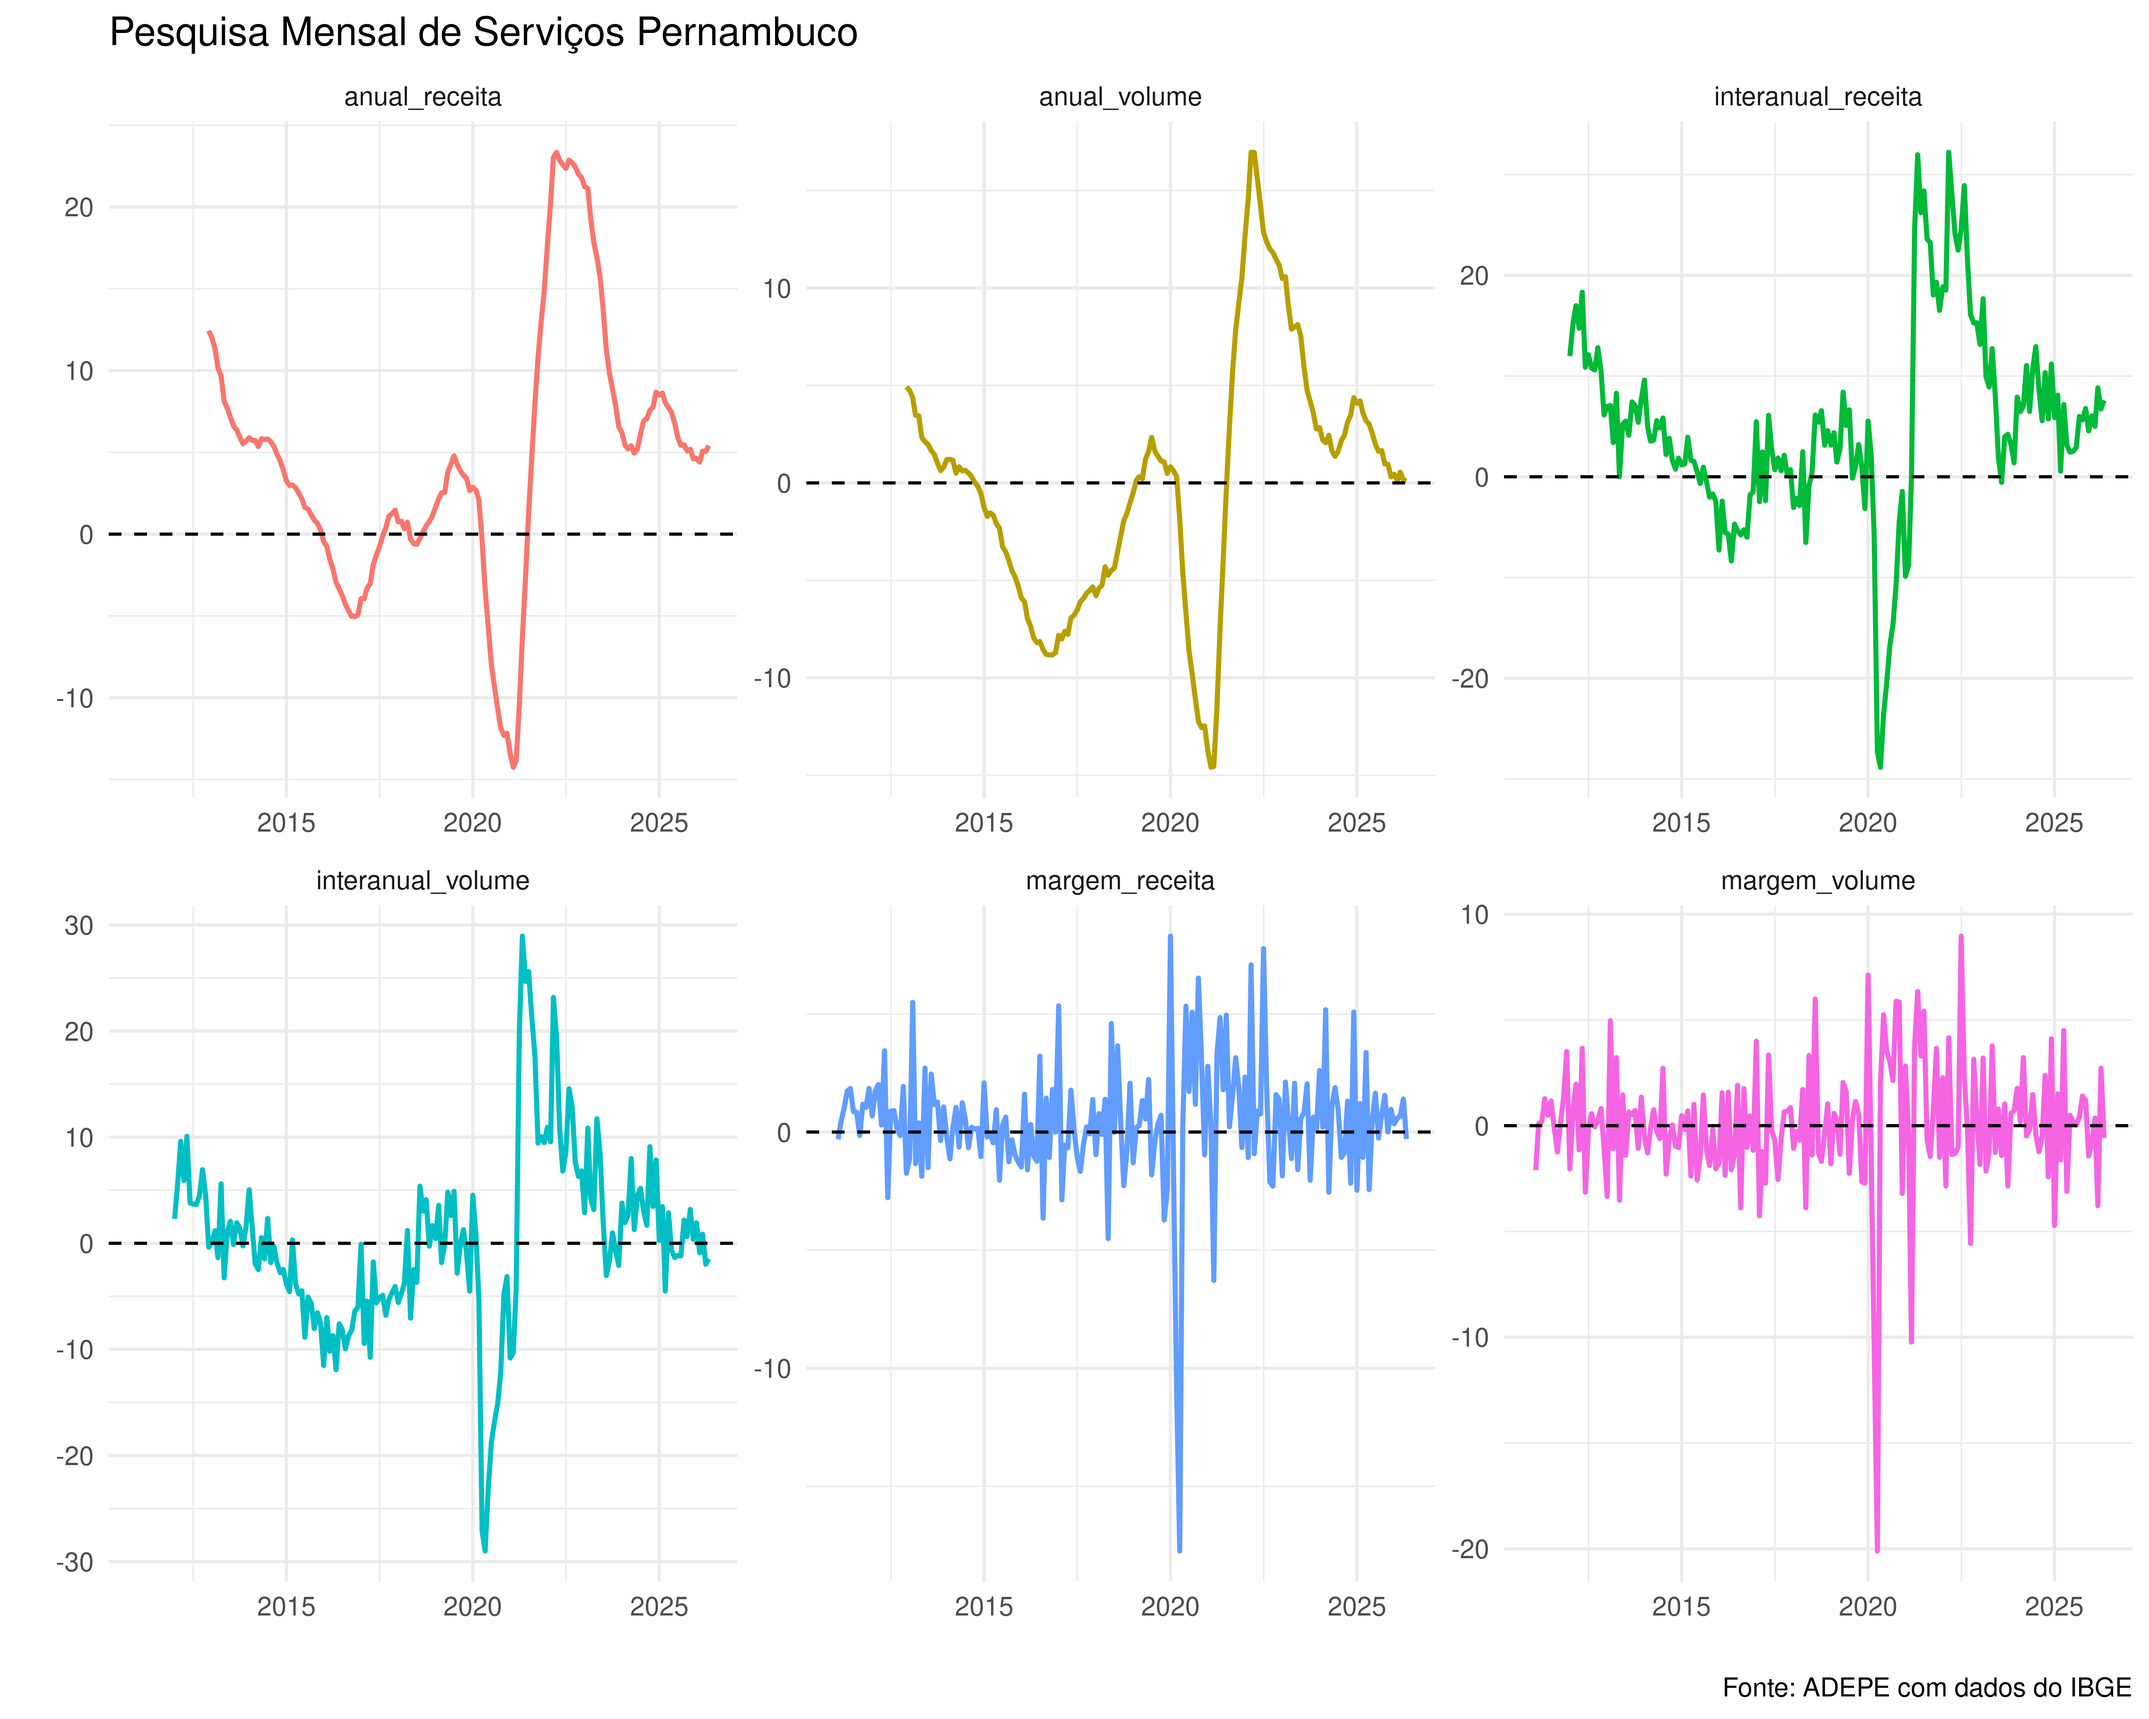
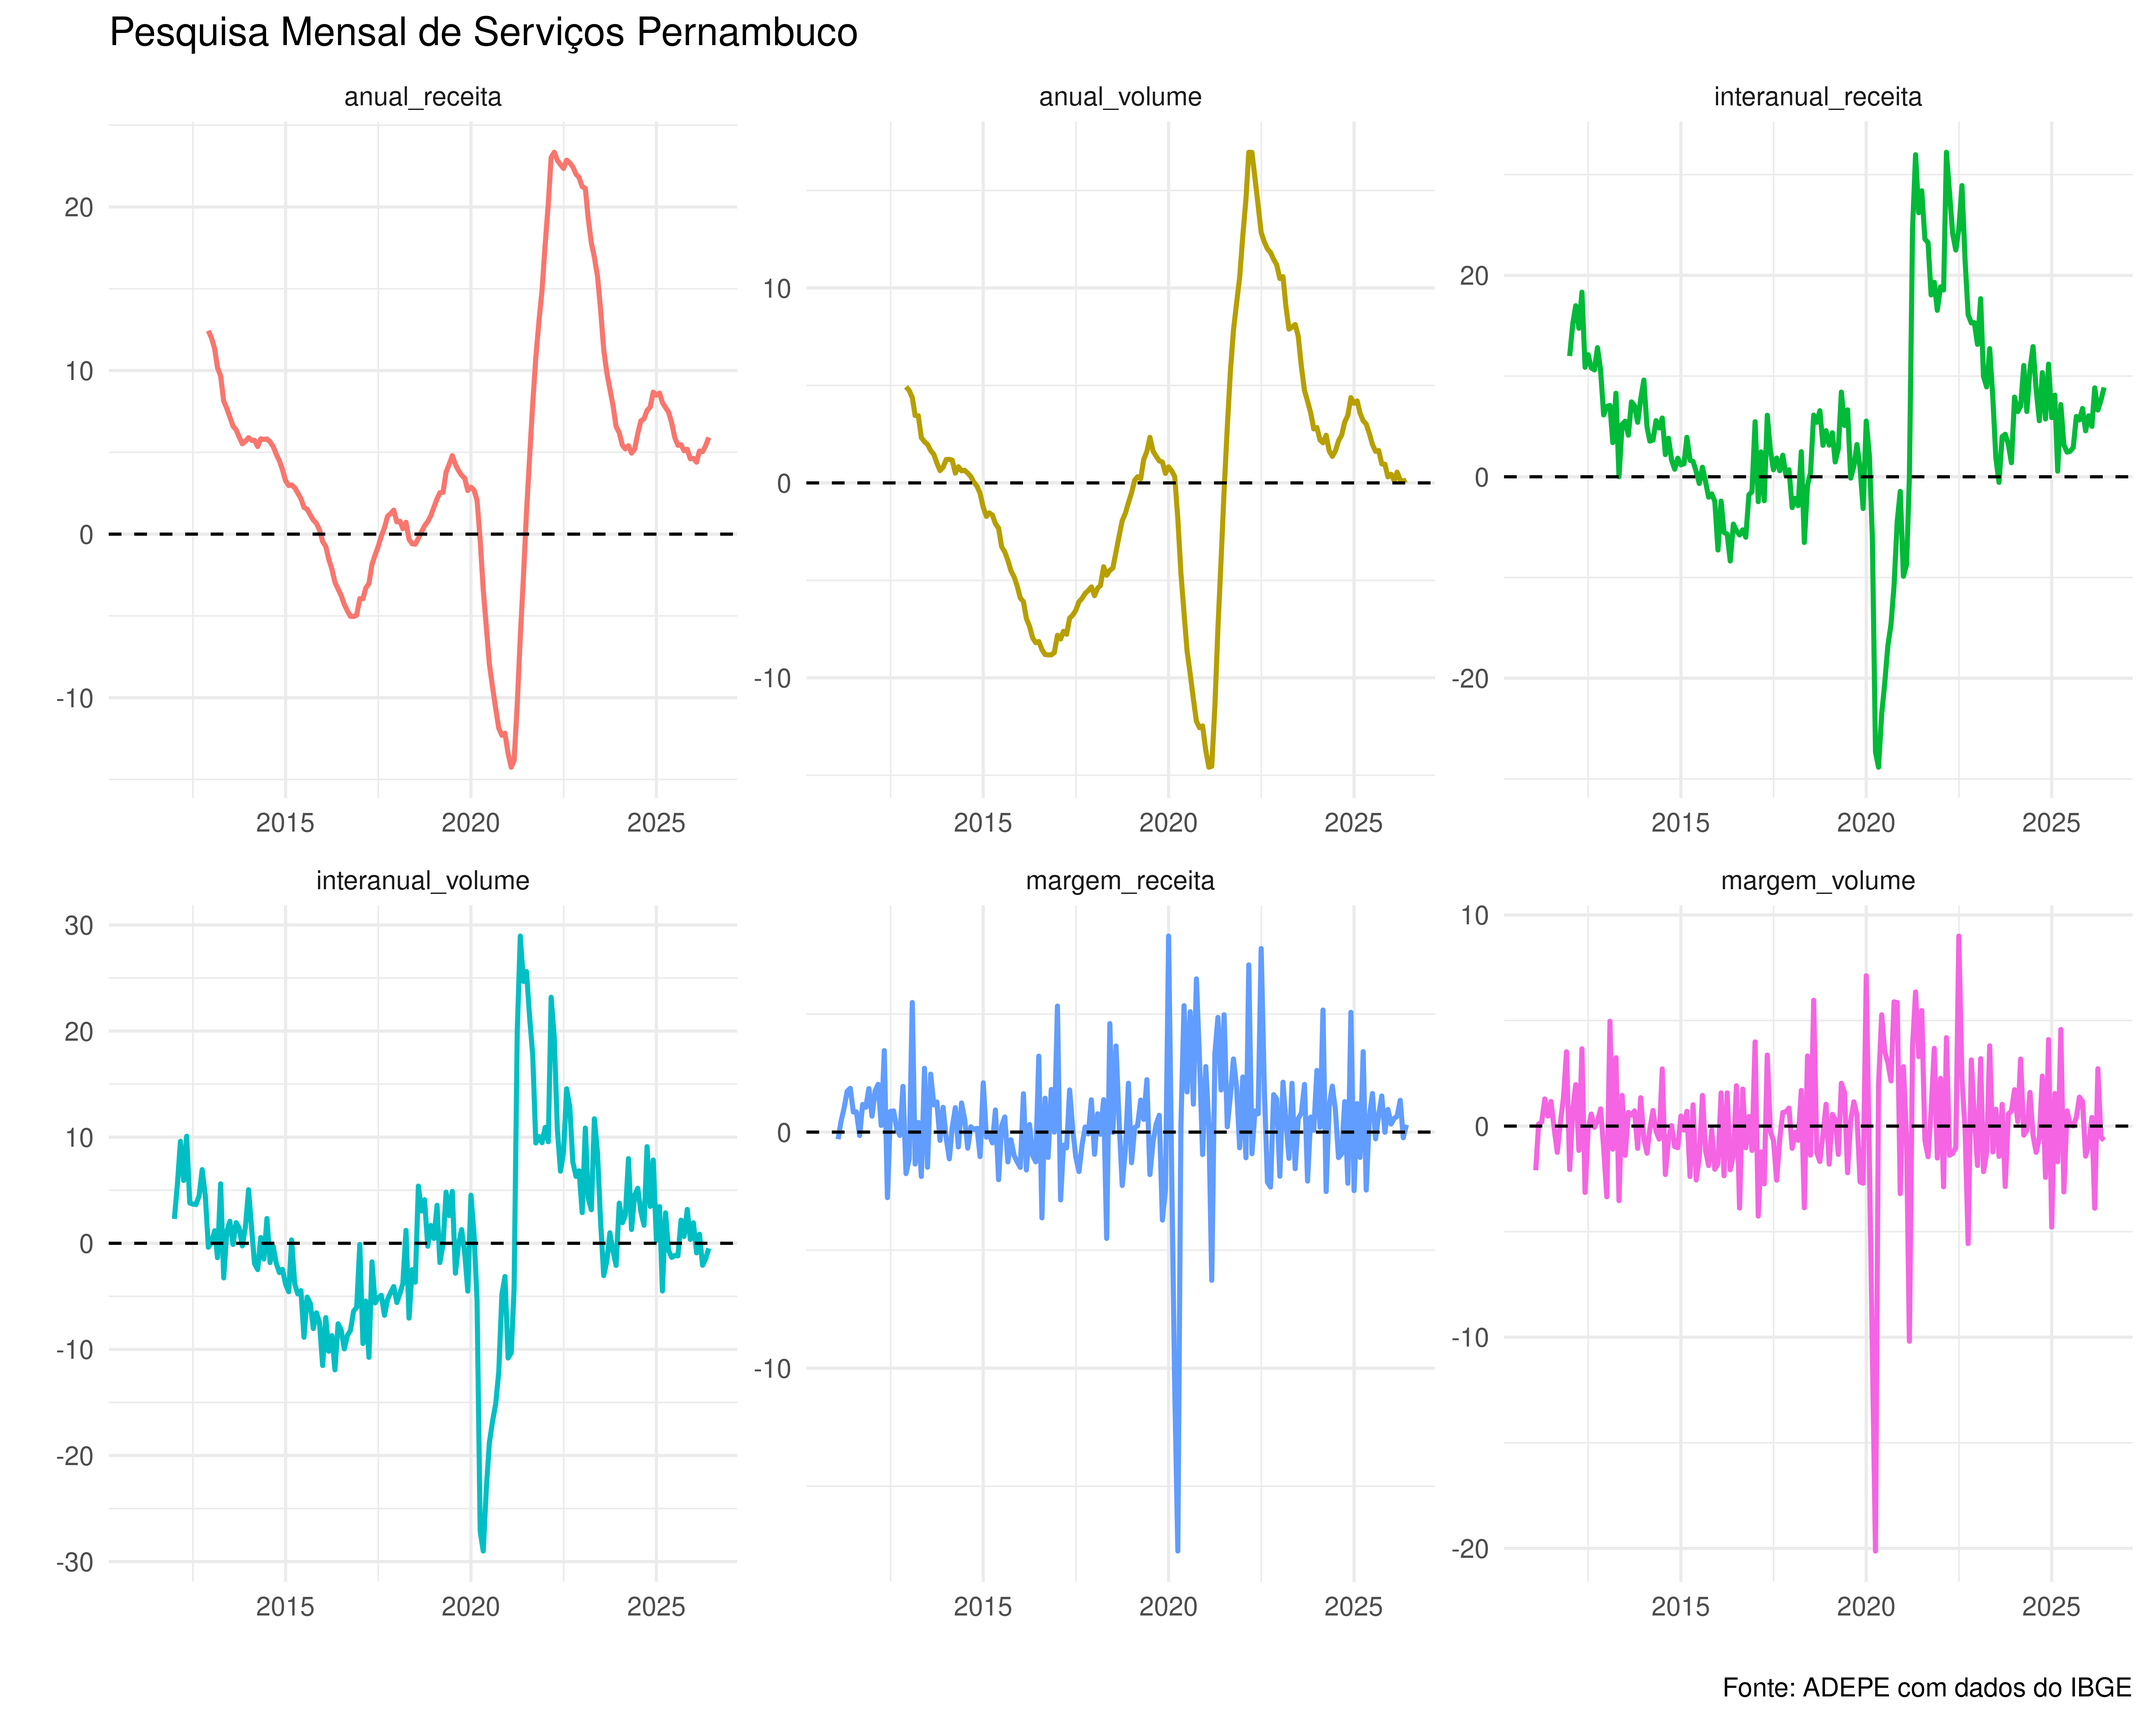
Atualização de relatório automatizada

diff --git a/pms/pms.html b/pms/pms.html
@@ -381,40 +381,40 @@ Núcleo de Dados <br><span style="font-size: 70%;">ADEPE<br><a href="https://git
 </thead>
 <tbody>
 <tr class="odd">
-<td style="text-align: left;">2025-12-01</td>
-<td style="text-align: right;">-0.94</td>
-<td style="text-align: right;">7.88</td>
-<td style="text-align: right;">7.68</td>
-</tr>
-<tr class="even">
 <td style="text-align: left;">2026-01-01</td>
-<td style="text-align: right;">2.23</td>
+<td style="text-align: right;">2.21</td>
 <td style="text-align: right;">6.90</td>
 <td style="text-align: right;">7.71</td>
 </tr>
-<tr class="odd">
+<tr class="even">
 <td style="text-align: left;">2026-02-01</td>
-<td style="text-align: right;">1.21</td>
-<td style="text-align: right;">5.03</td>
+<td style="text-align: right;">1.20</td>
+<td style="text-align: right;">5.04</td>
 <td style="text-align: right;">7.39</td>
 </tr>
-<tr class="even">
+<tr class="odd">
 <td style="text-align: left;">2026-03-01</td>
-<td style="text-align: right;">-0.18</td>
-<td style="text-align: right;">9.03</td>
+<td style="text-align: right;">-0.12</td>
+<td style="text-align: right;">9.06</td>
 <td style="text-align: right;">7.52</td>
 </tr>
-<tr class="odd">
+<tr class="even">
 <td style="text-align: left;">2026-04-01</td>
-<td style="text-align: right;">1.48</td>
-<td style="text-align: right;">8.26</td>
-<td style="text-align: right;">7.60</td>
+<td style="text-align: right;">1.44</td>
+<td style="text-align: right;">8.33</td>
+<td style="text-align: right;">7.61</td>
+</tr>
+<tr class="odd">
+<td style="text-align: left;">2026-05-01</td>
+<td style="text-align: right;">0.46</td>
+<td style="text-align: right;">7.24</td>
+<td style="text-align: right;">7.43</td>
 </tr>
 <tr class="even">
-<td style="text-align: left;">2026-05-01</td>
-<td style="text-align: right;">0.32</td>
-<td style="text-align: right;">6.95</td>
-<td style="text-align: right;">7.40</td>
+<td style="text-align: left;">2026-06-01</td>
+<td style="text-align: right;">0.31</td>
+<td style="text-align: right;">8.64</td>
+<td style="text-align: right;">7.51</td>
 </tr>
 </tbody>
 </table>
@@ -436,40 +436,40 @@ Núcleo de Dados <br><span style="font-size: 70%;">ADEPE<br><a href="https://git
 </thead>
 <tbody>
 <tr class="odd">
-<td style="text-align: left;">2025-12-01</td>
-<td style="text-align: right;">-0.27</td>
-<td style="text-align: right;">3.65</td>
-<td style="text-align: right;">2.91</td>
-</tr>
-<tr class="even">
 <td style="text-align: left;">2026-01-01</td>
-<td style="text-align: right;">0.01</td>
-<td style="text-align: right;">3.23</td>
+<td style="text-align: right;">0.03</td>
+<td style="text-align: right;">3.24</td>
 <td style="text-align: right;">3.08</td>
 </tr>
-<tr class="odd">
+<tr class="even">
 <td style="text-align: left;">2026-02-01</td>
-<td style="text-align: right;">0.07</td>
-<td style="text-align: right;">0.57</td>
+<td style="text-align: right;">0.08</td>
+<td style="text-align: right;">0.58</td>
 <td style="text-align: right;">2.78</td>
 </tr>
-<tr class="even">
+<tr class="odd">
 <td style="text-align: left;">2026-03-01</td>
-<td style="text-align: right;">-0.93</td>
-<td style="text-align: right;">3.49</td>
+<td style="text-align: right;">-1.01</td>
+<td style="text-align: right;">3.52</td>
 <td style="text-align: right;">2.91</td>
 </tr>
-<tr class="odd">
+<tr class="even">
 <td style="text-align: left;">2026-04-01</td>
-<td style="text-align: right;">1.07</td>
-<td style="text-align: right;">2.05</td>
-<td style="text-align: right;">2.92</td>
+<td style="text-align: right;">1.21</td>
+<td style="text-align: right;">2.12</td>
+<td style="text-align: right;">2.93</td>
+</tr>
+<tr class="odd">
+<td style="text-align: left;">2026-05-01</td>
+<td style="text-align: right;">-0.24</td>
+<td style="text-align: right;">0.65</td>
+<td style="text-align: right;">2.65</td>
 </tr>
 <tr class="even">
-<td style="text-align: left;">2026-05-01</td>
-<td style="text-align: right;">-0.36</td>
-<td style="text-align: right;">0.36</td>
-<td style="text-align: right;">2.61</td>
+<td style="text-align: left;">2026-06-01</td>
+<td style="text-align: right;">0.02</td>
+<td style="text-align: right;">2.01</td>
+<td style="text-align: right;">2.56</td>
 </tr>
 </tbody>
 </table>
@@ -517,40 +517,40 @@ Núcleo de Dados <br><span style="font-size: 70%;">ADEPE<br><a href="https://git
 </thead>
 <tbody>
 <tr class="odd">
-<td style="text-align: left;">2025-12-01</td>
-<td style="text-align: right;">0.96</td>
-<td style="text-align: right;">4.56</td>
-<td style="text-align: right;">4.61</td>
-</tr>
-<tr class="even">
 <td style="text-align: left;">2026-01-01</td>
-<td style="text-align: right;">0.35</td>
+<td style="text-align: right;">0.34</td>
 <td style="text-align: right;">6.05</td>
 <td style="text-align: right;">4.63</td>
 </tr>
-<tr class="odd">
+<tr class="even">
 <td style="text-align: left;">2026-02-01</td>
 <td style="text-align: right;">0.58</td>
 <td style="text-align: right;">5.01</td>
 <td style="text-align: right;">4.40</td>
 </tr>
-<tr class="even">
+<tr class="odd">
 <td style="text-align: left;">2026-03-01</td>
 <td style="text-align: right;">0.67</td>
 <td style="text-align: right;">8.82</td>
 <td style="text-align: right;">5.08</td>
 </tr>
-<tr class="odd">
+<tr class="even">
 <td style="text-align: left;">2026-04-01</td>
-<td style="text-align: right;">1.40</td>
-<td style="text-align: right;">6.74</td>
-<td style="text-align: right;">5.05</td>
+<td style="text-align: right;">1.34</td>
+<td style="text-align: right;">6.63</td>
+<td style="text-align: right;">5.04</td>
+</tr>
+<tr class="odd">
+<td style="text-align: left;">2026-05-01</td>
+<td style="text-align: right;">-0.24</td>
+<td style="text-align: right;">7.58</td>
+<td style="text-align: right;">5.40</td>
 </tr>
 <tr class="even">
-<td style="text-align: left;">2026-05-01</td>
-<td style="text-align: right;">-0.30</td>
-<td style="text-align: right;">7.59</td>
-<td style="text-align: right;">5.41</td>
+<td style="text-align: left;">2026-06-01</td>
+<td style="text-align: right;">0.31</td>
+<td style="text-align: right;">8.87</td>
+<td style="text-align: right;">5.91</td>
 </tr>
 </tbody>
 </table>
@@ -572,40 +572,40 @@ Núcleo de Dados <br><span style="font-size: 70%;">ADEPE<br><a href="https://git
 </thead>
 <tbody>
 <tr class="odd">
-<td style="text-align: left;">2025-12-01</td>
-<td style="text-align: right;">-1.43</td>
-<td style="text-align: right;">0.37</td>
-<td style="text-align: right;">0.31</td>
-</tr>
-<tr class="even">
 <td style="text-align: left;">2026-01-01</td>
-<td style="text-align: right;">-0.82</td>
+<td style="text-align: right;">-0.89</td>
 <td style="text-align: right;">1.93</td>
 <td style="text-align: right;">0.44</td>
 </tr>
-<tr class="odd">
+<tr class="even">
 <td style="text-align: left;">2026-02-01</td>
-<td style="text-align: right;">0.36</td>
+<td style="text-align: right;">0.41</td>
 <td style="text-align: right;">-0.90</td>
 <td style="text-align: right;">0.11</td>
 </tr>
-<tr class="even">
+<tr class="odd">
 <td style="text-align: left;">2026-03-01</td>
-<td style="text-align: right;">-3.79</td>
+<td style="text-align: right;">-3.89</td>
 <td style="text-align: right;">0.86</td>
 <td style="text-align: right;">0.55</td>
 </tr>
-<tr class="odd">
+<tr class="even">
 <td style="text-align: left;">2026-04-01</td>
-<td style="text-align: right;">2.72</td>
-<td style="text-align: right;">-1.97</td>
-<td style="text-align: right;">0.16</td>
+<td style="text-align: right;">2.71</td>
+<td style="text-align: right;">-2.07</td>
+<td style="text-align: right;">0.15</td>
+</tr>
+<tr class="odd">
+<td style="text-align: left;">2026-05-01</td>
+<td style="text-align: right;">-0.53</td>
+<td style="text-align: right;">-1.47</td>
+<td style="text-align: right;">0.08</td>
 </tr>
 <tr class="even">
-<td style="text-align: left;">2026-05-01</td>
-<td style="text-align: right;">-0.58</td>
-<td style="text-align: right;">-1.46</td>
-<td style="text-align: right;">0.09</td>
+<td style="text-align: left;">2026-06-01</td>
+<td style="text-align: right;">-0.67</td>
+<td style="text-align: right;">-0.48</td>
+<td style="text-align: right;">0.15</td>
 </tr>
 </tbody>
 </table>
